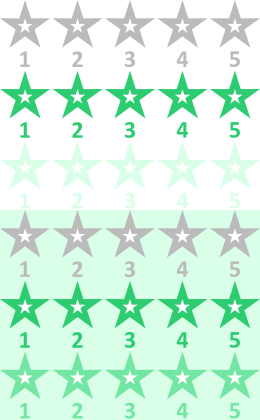
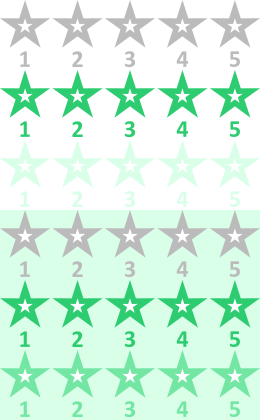
Update to version 1.0.2 beta

diff --git a/assets/components/simplerating/js/web/default.js b/assets/components/simplerating/js/web/default.js
@@ -1,43 +1,63 @@
 $(function () {
-    var disabledVote = function () {
-        $('.rating_active').removeClass('rating_active');
-        $('.rating__best').removeClass('rating__best_hover');
-        $('.rating__star').removeClass('rating__star_opacity rating__star_hover');
-    };
-    if (!navigator.cookieEnabled) {
-        disabledVote();
+
+    var output = [];
+    if (localStorage.getItem('star_rating')) {
+        output = JSON.parse(localStorage.getItem('star_rating'));
     }
-    var rating_star = $('.rating__star');
-    rating_star.hover(function () {
-        if ($('.rating').hasClass('rating_active')) {
-            $(this).closest('.rating__best').addClass('rating__best_hover');
-            $(this).closest('.rating__best').find('.rating__star').not(this).addClass('rating__star_opacity');
-            $(this).addClass('rating__star_hover');
+    var removeRatingActive = function () {
+        if (output) {
+            $('.rating_active [data-id]').each(function () {
+                var id = $(this).attr('data-id');
+                if (output.indexOf(id) >= 0) {
+                    $(this).closest('.rating').removeClass('rating_active');
+                }
+            });
         }
-    }, function () {
-        if ($('.rating').hasClass('rating_active')) {
-            $(this).closest('.rating__best').removeClass('rating__best_hover');
-            $(this).closest('.rating__best').find('.rating__star').removeClass('rating__star_opacity');
-            $(this).removeClass('rating__star_hover');
-        }
+    };
+    removeRatingActive();
+    $(document).on('pdopage_load', function () {
+        removeRatingActive();
     });
-    rating_star.click(function (e) {
+
+    var rating_star_class = '.rating_active .rating__star'
+    var rating_star = $(rating_star_class);
+    $(document).on('mouseenter', rating_star_class, function () {
+        $(this).closest('.rating__best').addClass('rating__best_hover');
+        $(this).closest('.rating__best').find('.rating__star').not(this).addClass('rating__star_opacity');
+        $(this).addClass('rating__star_hover');
+    });
+    $(document).on('mouseleave', rating_star_class, function () {
+        $(this).closest('.rating__best').removeClass('rating__best_hover');
+        $(this).closest('.rating__best').find('.rating__star').removeClass('rating__star_opacity');
+        $(this).removeClass('rating__star_hover');
+    });
+    $(document).on('click', rating_star_class, function (e) {
         e.preventDefault();
         if (!$(this).closest('.rating').hasClass('rating_active')) {
             return;
         }
+        var current = $(this).closest('.rating');
+        var id = current.find('.rating__current').attr('data-id');
         var title = $(this).attr('data-title');
-        var id = $(this).closest('.rating__best').find('.rating__current').attr('data-id');
         $.post('/assets/components/simplerating/action.php', {'action': 'setRating', 'id': id, 'title': title})
             .done(function (data) {
                 if (!$.isEmptyObject(data)) {
-                    disabledVote();
+                    current.removeClass('rating_active');
+                    current.find('.rating__best').removeClass('rating__best_hover');
+                    current.find('.rating__star').removeClass('rating__star_opacity rating__star_hover');
                     var ratingValue = data['rating_value'];
                     var ratingCount = data['rating_count'];
                     var width = 130 * ratingValue / 5;
-                    $('.rating__current').css('width', width);
-                    $('.rating-count').text(ratingCount);
-                    $('.rating-value').text(ratingValue.toFixed(1));
+                    current.find('.rating__current').css('width', width);
+                    current.next().find('.rating-count').text(ratingCount);
+                    current.next().find('.rating-value').text(ratingValue.toFixed(1));
+
+                    var output = [];
+                    if (localStorage.getItem('star_rating')) {
+                        output = JSON.parse(localStorage.getItem('star_rating'));
+                    }
+                    output.push(id);
+                    localStorage.setItem('star_rating', JSON.stringify(output));
                 }
             });
     });

diff --git a/assets/components/simplerating/css/web/default.css b/assets/components/simplerating/css/web/default.css
@@ -1,13 +1,13 @@
 .rating {
     position: relative;
     width: 130px;
-    height: 36px;
+    height: 35px;
 }
 
 .rating__best {
     background: url(/assets/components/simplerating/img/stars.png) no-repeat;
     width: 130px;
-    height: 36px;
+    height: 35px;
     position: absolute;
     background-size: 130px 210px;
 }
@@ -17,12 +17,12 @@
 }
 
 .rating__best_hover {
-    background-position: 0 -36px !important;
+    background-position: 0 -35px !important;
 }
 
 .rating__star {
     width: 26px;
-    height: 36px;
+    height: 35px;
     display: block;
     position: absolute;
     top: 0;
@@ -58,8 +58,8 @@
 }
 
 .rating__current {
-    background: url(/assets/components/simplerating/img/stars.png) 0 -36px no-repeat;
-    height: 36px;
+    background: url(/assets/components/simplerating/img/stars.png) 0 -35px no-repeat;
+    height: 35px;
     position: absolute;
     background-size: 130px 210px;
 }

diff --git a/core/components/simplerating/elements/snippets/snippet.simplerating.php b/core/components/simplerating/elements/snippets/snippet.simplerating.php
@@ -4,16 +4,19 @@ $modx->regClientScript(MODX_ASSETS_URL . 'components/simplerating/js/web/default
 
 /** @var array $scriptProperties */
 $tpl_option = $modx->getOption('tpl', $scriptProperties, 'tplSimpleRating');
+$id = $modx->getOption('id', $scriptProperties);
+
+if (empty($id)) {
+    $id = $modx->resource->id;
+}
 
 $rating_value = 0.0;
 $rating_count = 0;
 $rating_ips = array();
 $rating_active_class = ' rating_active';
-$cookie_key = 'star_rating';
 
 $modx->addPackage('simplerating', MODX_CORE_PATH . 'components/simplerating/model/');
 
-$id = $modx->resource->get('id');
 $simple_rating = $modx->getObject('SimpleRating', array(
     'resource' => $id
 ));
@@ -23,15 +26,12 @@ if (is_object($simple_rating)) {
     $rating_count = $simple_rating->get('rating_count');
     $rating_ips = $simple_rating->get('rating_ips');
 }
-// проверка по IP
-$ip = $modx->request->getClientIp();
-if ($modx->getOption('simplerating_ip') && in_array($ip['ip'], $rating_ips)) {
-    $rating_active_class = '';
-}
-// проверка по COOKIE
-if ((!empty($_COOKIE[$cookie_key])) && ($rating_active_class!=='')) {
-    $cookie = (int)$_COOKIE[$cookie_key];
-    if ($id === $cookie) {
+
+// проверка IP
+if ($modx->getOption('simplerating_ip')) {
+    $modx->getRequest();
+    $ip = $modx->request->getClientIp();
+    if (in_array($ip['ip'], $rating_ips)) {
         $rating_active_class = '';
     }
 }

diff --git a/assets/components/simplerating/action.php b/assets/components/simplerating/action.php
@@ -50,28 +50,27 @@ switch ($_POST['action']) {
         $modx->getRequest();
         $ip = $modx->request->getClientIp();
 
-        if (in_array($ip['ip'], $ratingIps) && $modx->getOption('simplerating_ip')) {
-            break;
+        // проверка IP
+        if ($modx->getOption('simplerating_ip')) {
+            $modx->getRequest();
+            $ip = $modx->request->getClientIp();
+            if (in_array($ip['ip'], $ratingIps)) {
+                break;
+            }
         }
-
         $ratingNewValue = ($ratingValue * $ratingCount + $title) / ($ratingCount + 1);
-        $ratingIps[] = $ip['ip'];
         $simpleRating->set('rating_value', $ratingNewValue);
         $simpleRating->set('rating_count', $ratingCount + 1);
-        $simpleRating->set('rating_ips', $ratingIps);
+        if ($modx->getOption('simplerating_ip')) {
+            $ratingIps[] = $ip['ip'];
+            $simpleRating->set('rating_ips', $ratingIps);
+        }
         $simpleRating->save();
 
         $output = array(
             'rating_value' => $ratingNewValue,
             'rating_count' => $ratingCount + 1
         );
-
-        $path = '/';
-        if($modx->getOption('site_start') != $id) {
-            $path .= $modx->makeUrl($id);
-        }
-
-        setcookie('star_rating', $id, time() + (86400 * 365), $path);
 
         break;
 }

diff --git a/_build/build.config.php b/_build/build.config.php
@@ -4,7 +4,7 @@
 define('PKG_NAME', 'SimpleRating');
 define('PKG_NAME_LOWER', strtolower(PKG_NAME));
 
-define('PKG_VERSION', '1.0.1');
+define('PKG_VERSION', '1.0.2');
 define('PKG_RELEASE', 'beta');
 define('PKG_AUTO_INSTALL', false);
 define('PKG_NAMESPACE_PATH', '{core_path}components/' . PKG_NAME_LOWER . '/');
